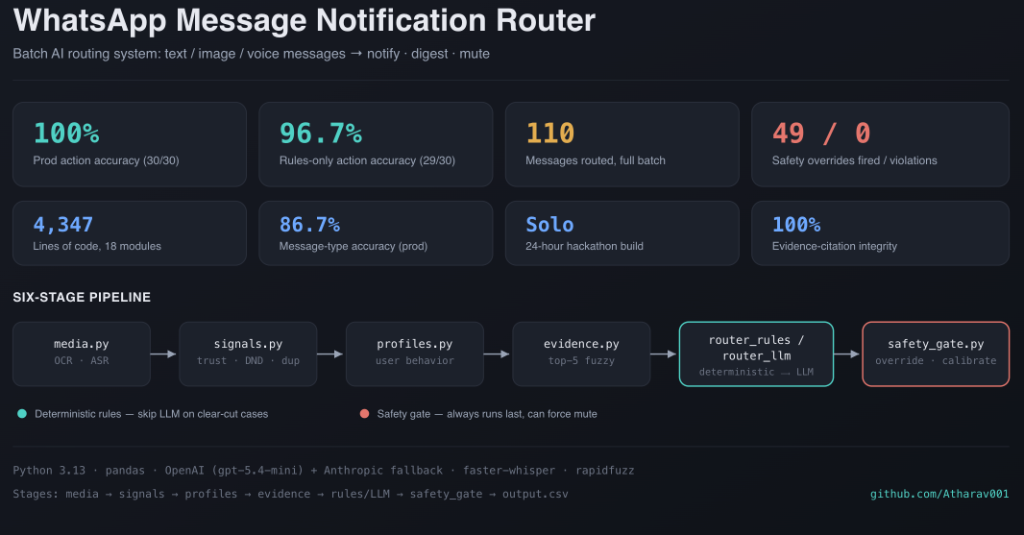
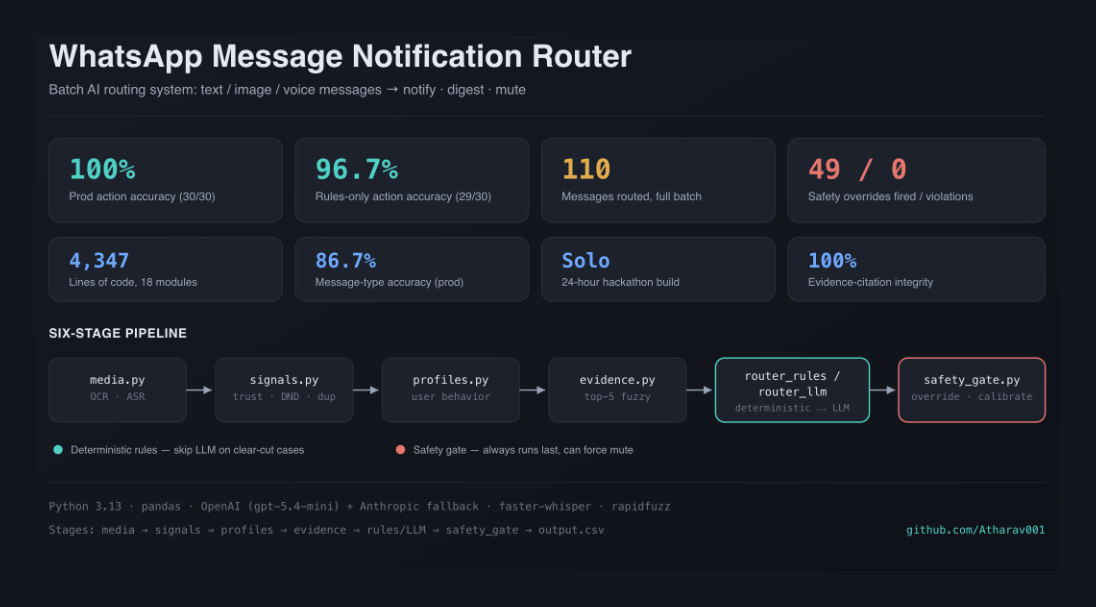
replace AI-generated image in case study, pad image margins and fit container background to #13161e

diff --git a/src/data/projects.js b/src/data/projects.js
@@ -165,7 +165,7 @@ export const projectsData = [
           text: 'A deterministic Python safety layer running downstream of model generation. Even if a prompt injection attempts to override system prompts, the Safety Gate revokes the decision and enforces a mute action.'
         }
       ],
-      technicalText: 'The system was stress-tested across batch datasets containing text, image, and audio messages across diverse user profiles. The architecture separates fast deterministic filters from LLM judgment nodes to optimize cost and latency.<br/><br/><h3 style="margin-top: 2rem;">📊 Comprehensive Quality & Benchmark Suite</h3><p>Evaluated on benchmark datasets with 100% action accuracy (30/30 labeled sample) and 86.7% message-type accuracy. Across a full 110-message batch test, the system executed 49 safety overrides with 0 violations and 100% evidence citation validity.</p><img src="/assets/optimized/omniroute_ai_performance.jpg" alt="OmniRoute AI Benchmark & Performance Metrics" style="width: 100%; border-radius: 12px; margin: 1.5rem 0; border: 1px solid rgba(255, 255, 255, 0.08);" />',
+      technicalText: 'The system was stress-tested across batch datasets containing text, image, and audio messages across diverse user profiles. The architecture separates fast deterministic filters from LLM judgment nodes to optimize cost and latency.<br/><br/><h3 style="margin-top: 2rem;">📊 Comprehensive Quality & Benchmark Suite</h3><p>Evaluated on benchmark datasets with 100% action accuracy (30/30 labeled sample) and 86.7% message-type accuracy. Across a full 110-message batch test, the system executed 49 safety overrides with 0 violations and 100% evidence citation validity.</p><img src="/assets/optimized/omniroute_ai_mockup.jpg" alt="WhatsApp Message Notification Router Metrics & Pipeline" style="width: 100%; border-radius: 12px; margin: 1.5rem 0; border: 1px solid rgba(255, 255, 255, 0.08);" />',
       techHighlights: [
         {
           title: '100% Action Accuracy Benchmark',

diff --git a/src/components/Projects.css b/src/components/Projects.css
@@ -197,13 +197,18 @@
   position: relative;
   flex: 1;
   height: 100%;
+  background: #13161e;
+  display: flex;
+  align-items: center;
+  justify-content: center;
+  overflow: hidden;
 }
 
 .project-img {
   width: 100%;
   height: 100%;
-  object-fit: cover;
-  object-position: top center;
+  object-fit: contain;
+  object-position: center;
   display: block;
 }
 
